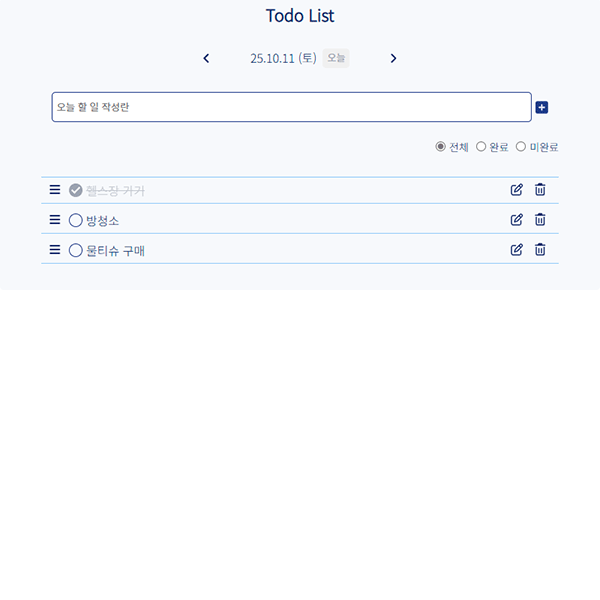
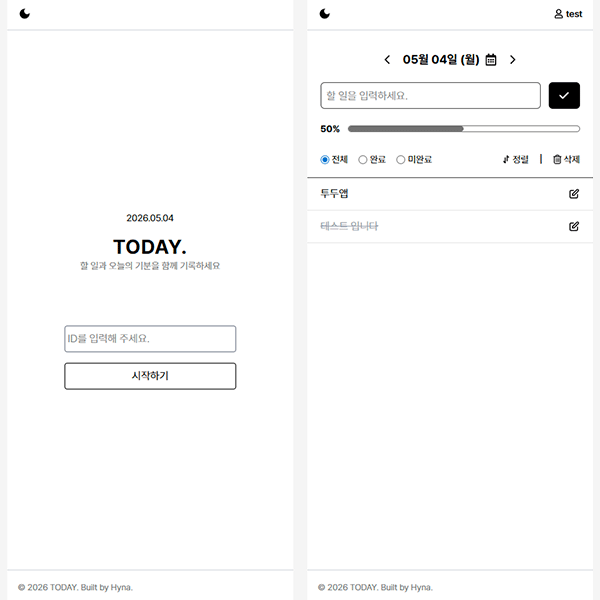
투두리스트 내용 수정

diff --git a/index.html b/index.html
@@ -288,26 +288,31 @@
                                 <dl>
                                     <dt><h5 class="project-tit">투두리스트</h5></dt>
                                     <dd class="project-txt">
-                                        React + TypeScript + SCSS 기반으로 제작한 SPA 형태의 Todo 관리 애플리케이션입니다.<br>
-                                        단순 UI 구현을 넘어, 상태 관리 구조 설계와 컴포넌트 분리를 중심으로 개발한 프로젝트입니다.
+                                        React + TypeScript 기반으로 제작한 SPA 형태의 Todo 관리 애플리케이션입니다.<br>
+                                        컴포넌트 단위 설계와 상태 관리 흐름을 중심으로 구현했으며, CRUD 기능과 사용자 경험 개선에 초점을 맞췄습니다.<br>
+                                        초기에는 json-server를 활용한 mock API로 기능을 구현했으며,<br>
+                                        배포 환경에서의 데이터 지속성 문제를 해결하기 위해 Supabase로 전환하여 실제 DB 기반으로 개선했습니다.
     
                                         <div class="project-skill">
                                             <p>주요 기능/사용 라이브러리 :</p>
                                             <ul class="skill-items">
                                                 <li>오늘 날짜 표시</li>
-                                                <li>할 일 추가/삭제</li>
+                                                <li>라이트/다크 모드</li>
+                                                <li>할 일 추가/수정/삭제 (CRUD)</li>
                                                 <li>완료/미완료 상태 토글</li>
                                                 <li>전체/완료/미완료 필터링</li>
                                                 <li>드래그 앤 드롭으로 순서 변경 (@hello-pangea/dnd)</li>
-                                                <li>로컬 스토리지 저장 (새로고침 후에도 유지)</li>
+                                                <li>다중 선택 삭제 기능</li>
+                                                <li>사용자별 데이터 분리 (localStorage + Supabase)</li>
+                                                <li>Supabase 연동을 통한 데이터 영속성 확보</li>
                                             </ul>
                                         </div>
                                     </dd>
                                 </dl>
     
                                 <div class="project-btn">
-                                    <a href="https://hyna-project03.vercel.app/" target="_blank" rel="noopener noreferrer" class="btn-demo">Live Demo</a>
-                                    <a href="https://github.com/hyunah0119/hyna.project03" target="_blank" rel="noopener noreferrer" class="btn-code">Code(GitHub)</a>
+                                    <a href="https://todo-react-chi-two.vercel.app/" target="_blank" rel="noopener noreferrer" class="btn-demo">Live Demo</a>
+                                    <a href="https://github.com/hyunah0119/todo/tree/main/todo-app" target="_blank" rel="noopener noreferrer" class="btn-code">Code(GitHub)</a>
                                 </div>
                             </div>
                         </article>
